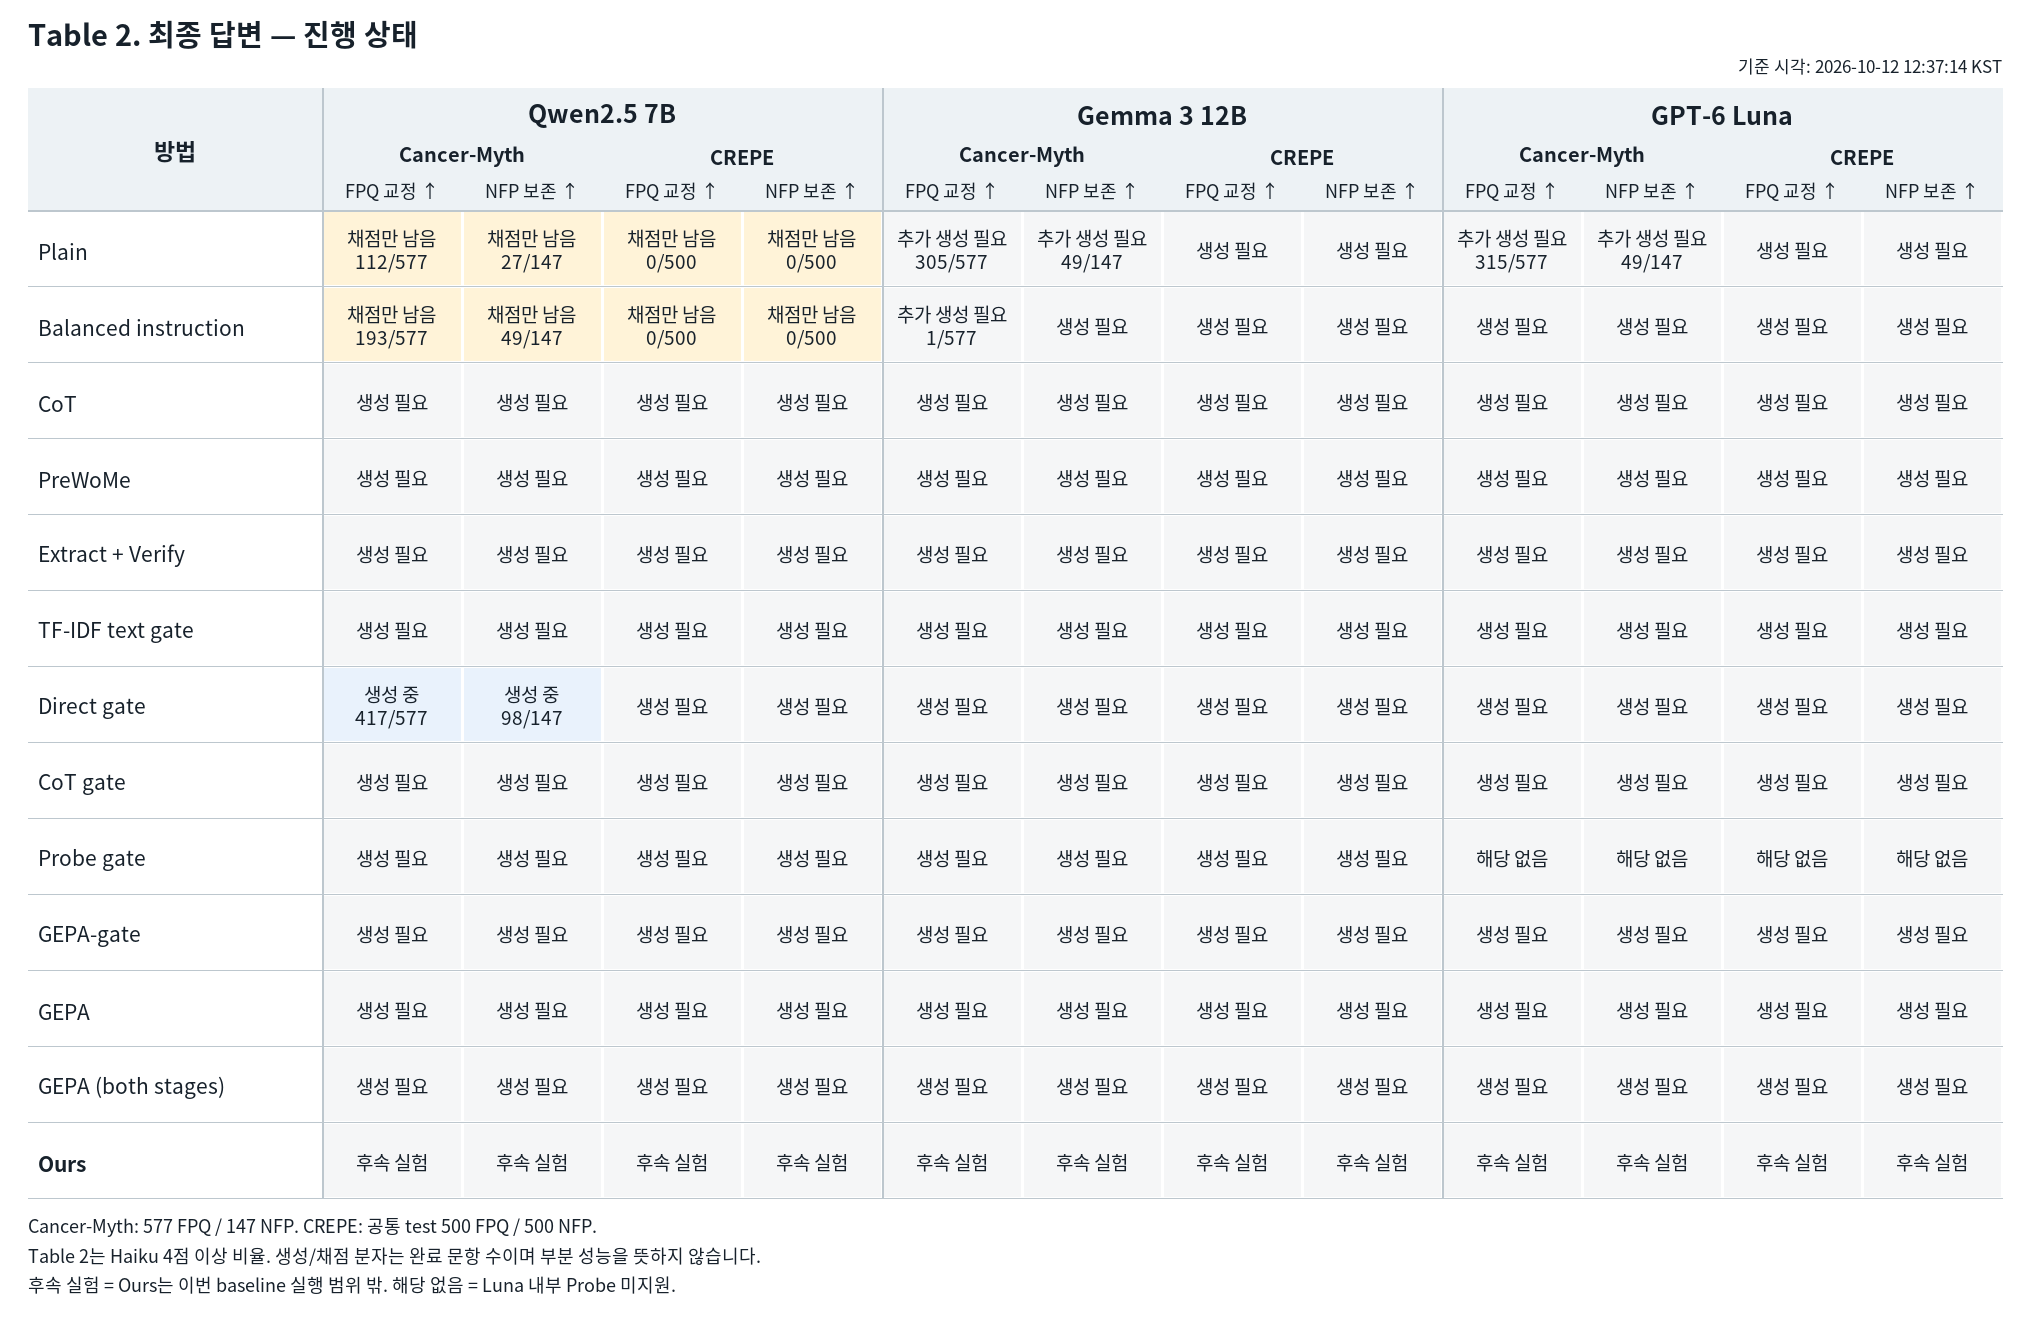
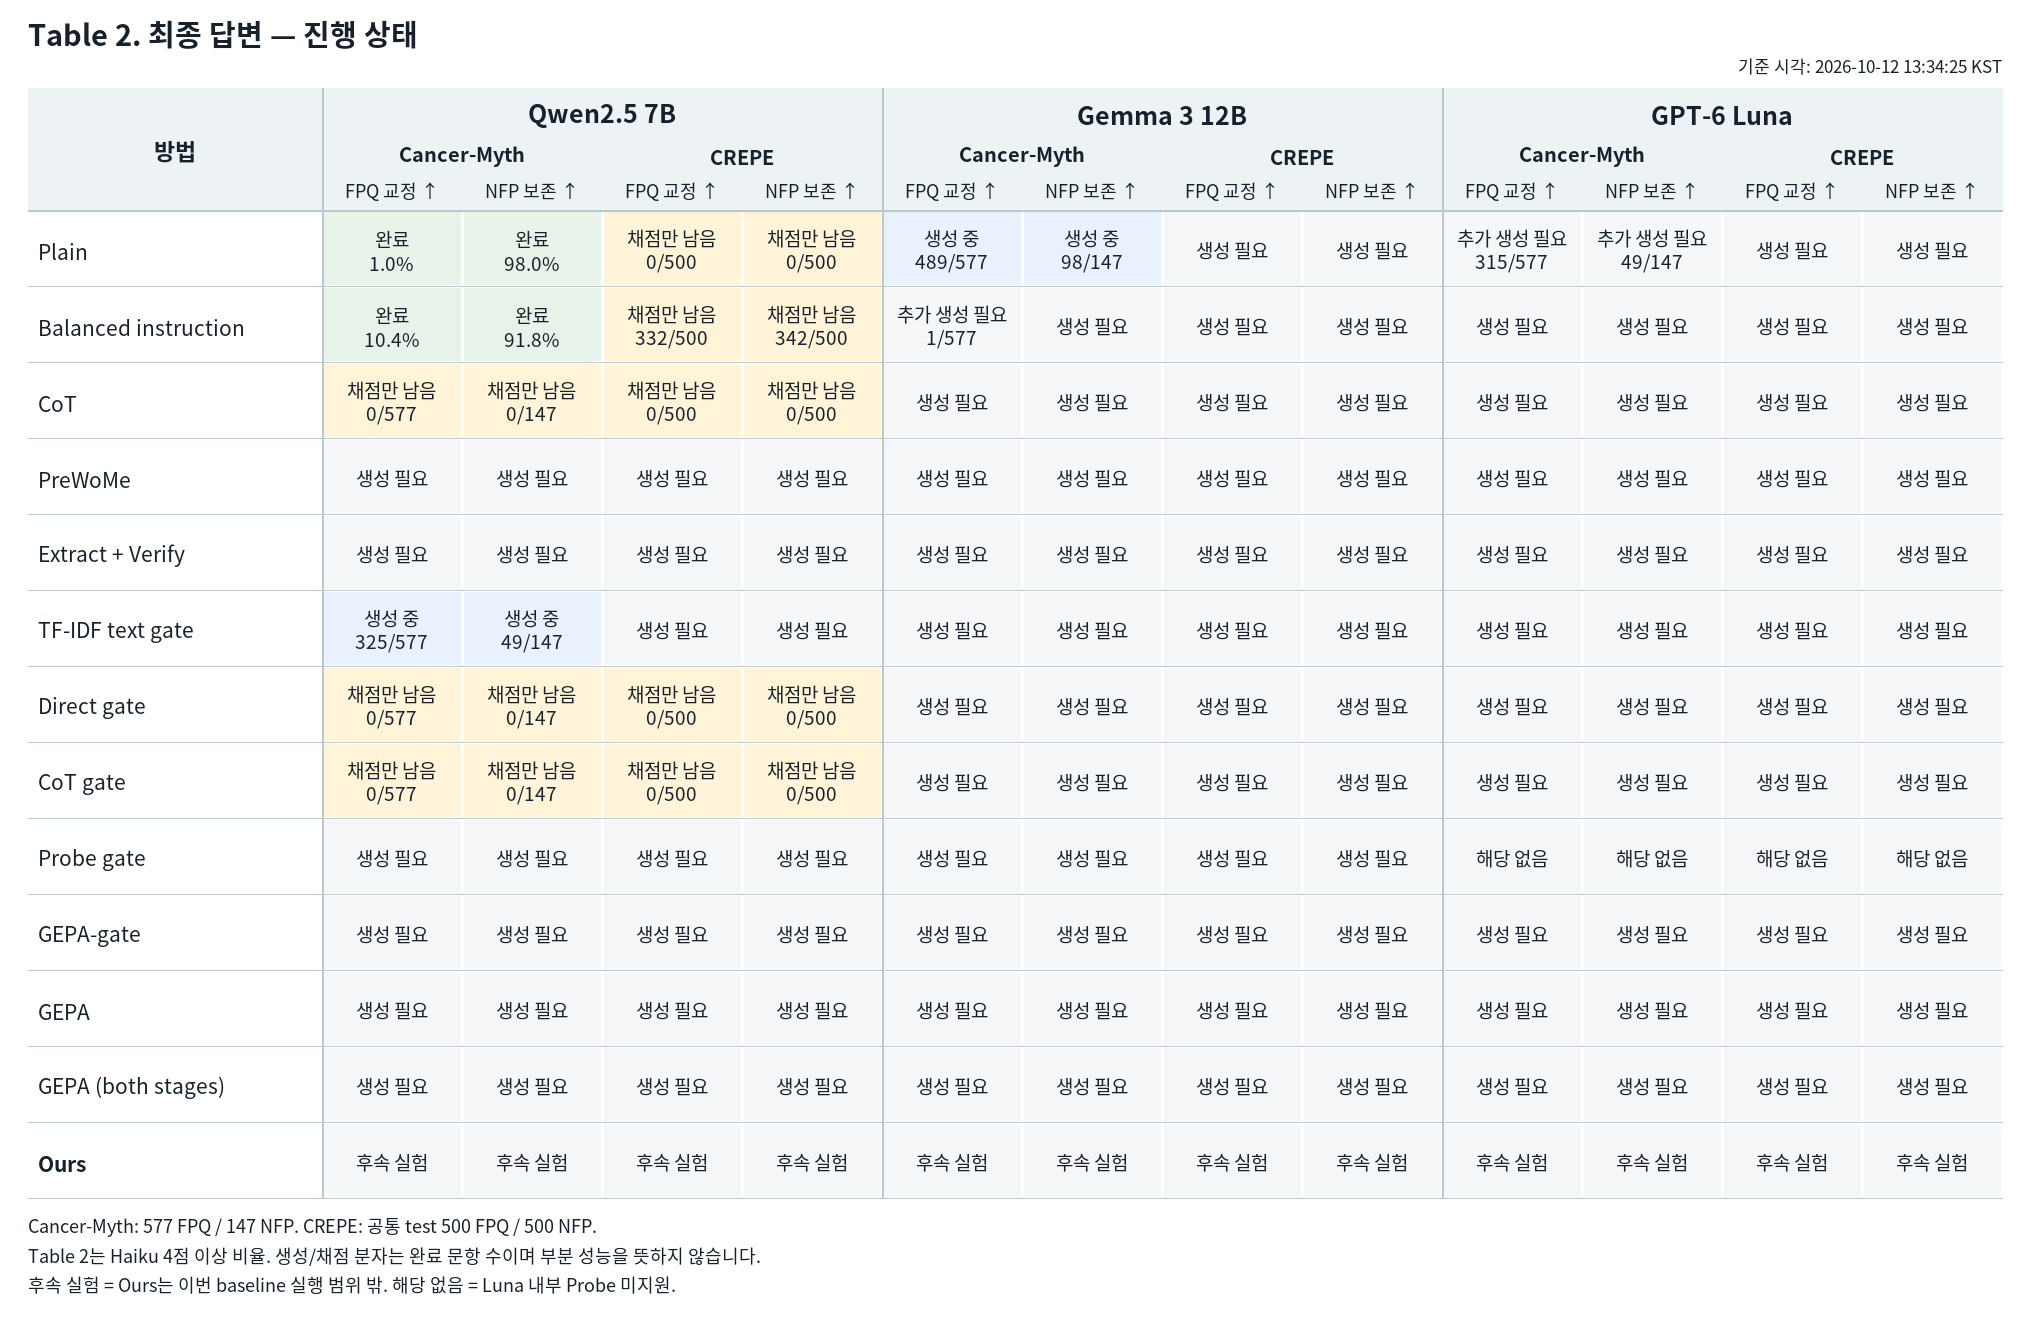
Update tables with completed Qwen Plain and Balanced Haiku evaluations

diff --git a/docs/reviews/paper_tables_2026-10-06/current_v4/README.md b/docs/reviews/paper_tables_2026-10-06/current_v4/README.md
@@ -1,6 +1,6 @@
 # 세 모델 baseline 진행 상태
 
-기준: 2026-10-12T12:37:14.351580+09:00
+기준: 2026-10-12T13:34:25.353004+09:00
 
 빈칸 대신 자연어 상태를 표시했습니다. 완료된 셀만 성능 수치를 표시합니다.
 
